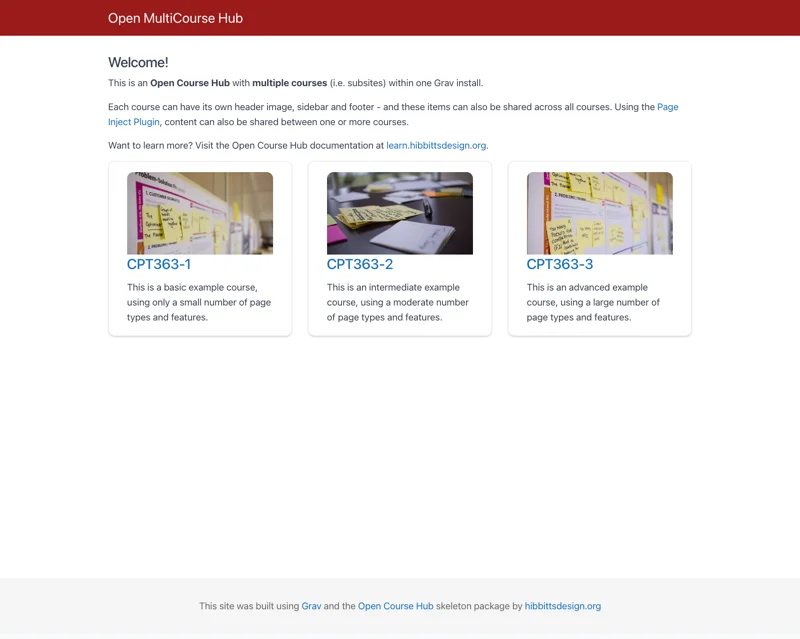
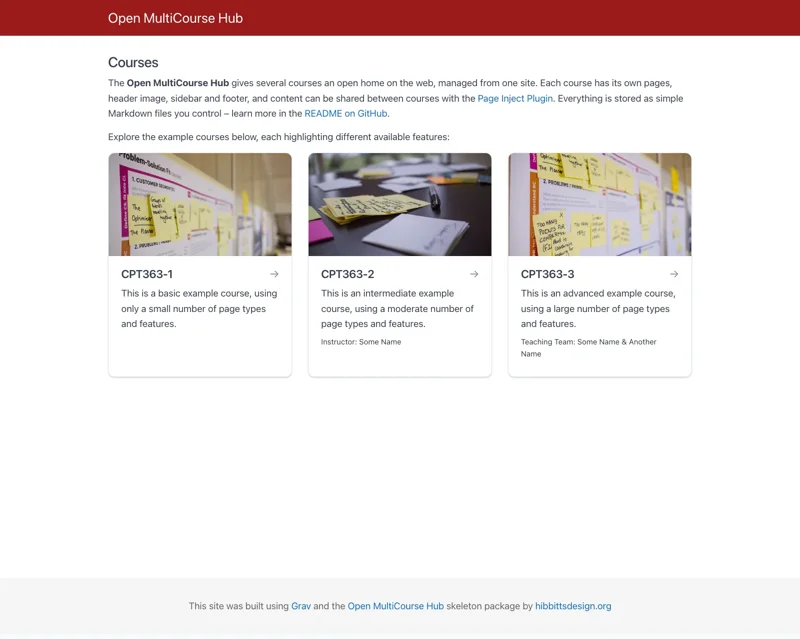
Refresh Cost-Free Grav Projects thumbnails from the skeleton README screenshots.

Changed region(s): [[0.125, 0.0892, 0.875, 0.5649], [0.25, 0.9218, 0.75, 0.9515]]

diff --git a/cost-free-grav-projects.html b/cost-free-grav-projects.html
@@ -219,7 +219,7 @@
         </div>
       </div>
       <div class="grav-card" id="grav-open-multicourse-hub">
-        <div class="grav-thumb"><a href="https://demo.hibbittsdesign.org/grav-open-multi-course-hub" target="_blank" rel="noopener"><img src="assets/screenshots/grav-open-multicourse-hub-thumb.webp" width="800" height="639" alt="Screenshot of the Grav Open MultiCourse Hub welcome page, showing a course-selection layer with three example courses"></a></div>
+        <div class="grav-thumb"><a href="https://demo.hibbittsdesign.org/grav-open-multi-course-hub" target="_blank" rel="noopener"><img src="assets/screenshots/grav-open-multicourse-hub-thumb.webp" width="800" height="639" alt="Screenshot of the Grav Open MultiCourse Hub courses page, showing course cards for three example courses"></a></div>
         <h3>Grav Open MultiCourse Hub</h3>
         <div class="badge-row"><span class="badge plain sm"><span aria-hidden="true">&#9733;</span> 6</span></div>
         <p>The same Course Hub structure, plus a top-level course-selection layer for managing several courses from one site &ndash; refreshed in 2026 with accessibility improvements and a Dark Mode option.</p>
